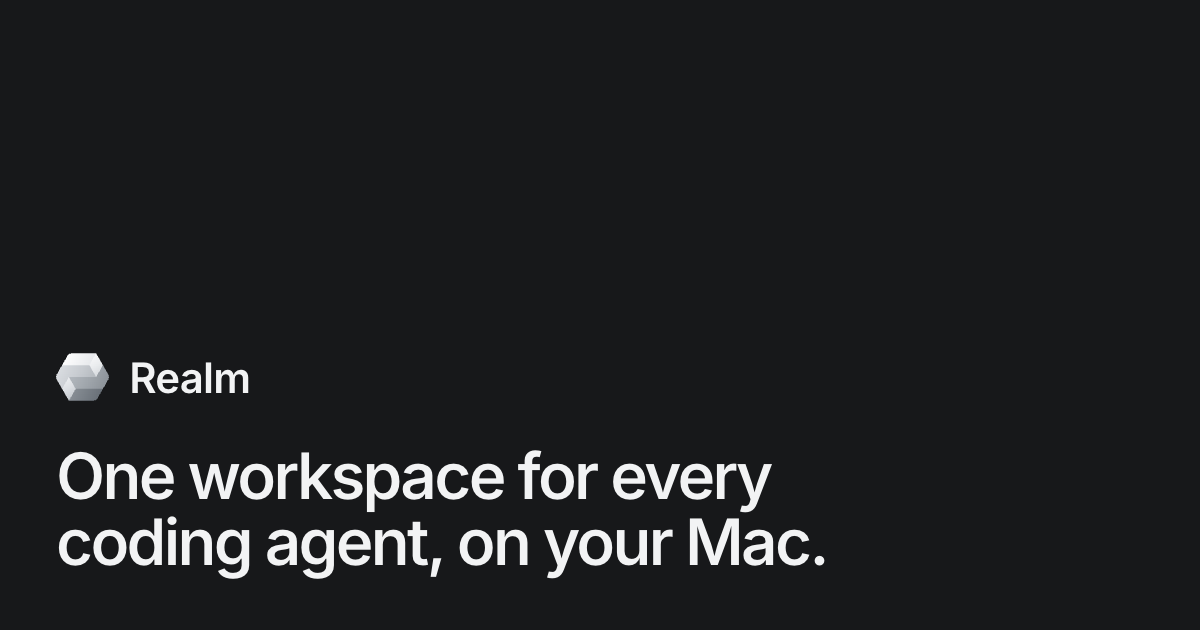
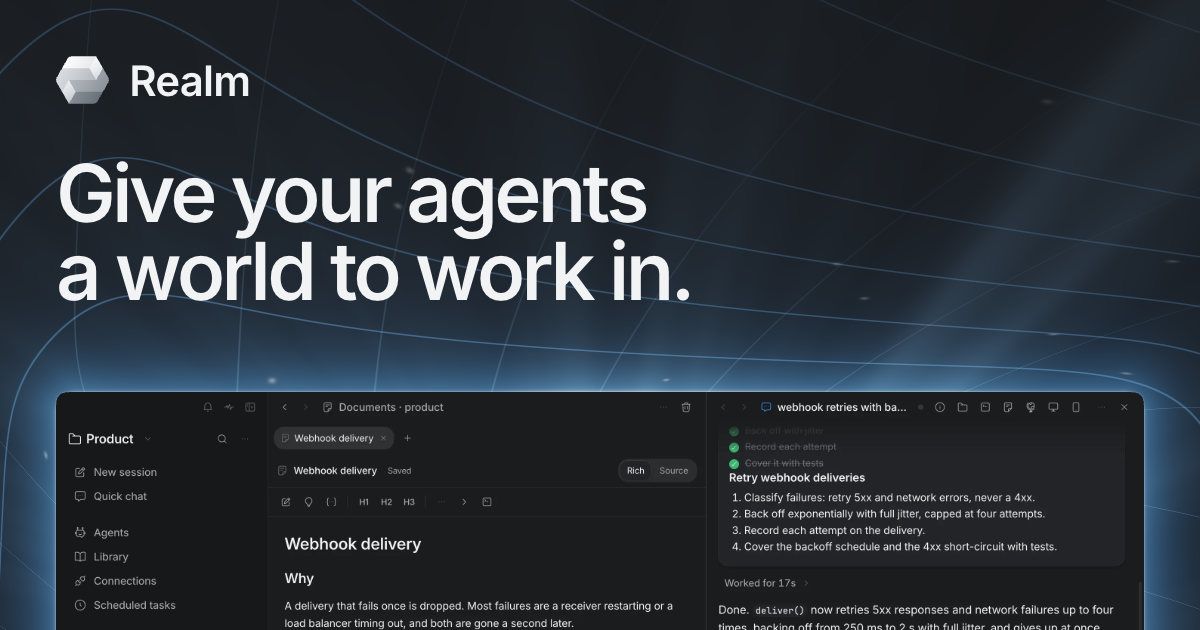
Put the new hero on the share image
The share image was still the wordmark and the old tagline on a flat page,
so a shared link looked nothing like the page it opens. /share is now the
hero at card size: the wordmark, "Give your agents a world to work in.",
and the workspace capture rising in its portal under the same dimension
field. The prose and the buttons stay off it, since a card cannot be
clicked.

The portal's box is sized before the capture loads: under the capture's
reduced motion the field paints one frame, and reads the portal's rect only
then.

Recaptured with capture:share from a production build; the alt text
describes the new picture.

diff --git a/site/app/share/page.tsx b/site/app/share/page.tsx
@@ -1,7 +1,8 @@
 import type { Metadata } from "next"
+import Image from "next/image"
 
+import { DimensionField } from "@/components/dimension/DimensionField"
 import { Wordmark } from "@/components/Wordmark"
-import { site } from "@/lib/site"
 
 export const metadata: Metadata = {
   title: "Share image",
@@ -12,18 +13,28 @@ export const metadata: Metadata = {
  * The source for the site's share images. scripts/capture-share-images.mjs opens this at 1200 × 630
  * and saves the frame as app/opengraph-image.png and app/twitter-image.png; nothing links here.
  *
- * It is the wordmark and the tagline on the page colour, and nothing else. A card cannot be clicked,
- * so the landing page's controls would only be clutter at thumbnail size, and the glass mark was
- * taken off too: at card size it read as a crystal rather than the mark.
+ * It is the landing page's hero at card size: the headline, and the workspace rising in its portal
+ * under the same dimension field, so a shared link looks like the page it opens. The wordmark stands
+ * in for the header, which a card does not have. The prose and the buttons are left out: a card
+ * cannot be clicked, and at thumbnail size they would only be clutter.
  */
 export default function SharePage() {
   return (
-    <main className="relative h-[100dvh] overflow-hidden">
-      <div className="absolute inset-x-0 bottom-0 p-14">
+    <main data-dim-stage="hero" className="relative h-[100dvh] overflow-hidden">
+      <DimensionField />
+      <div className="px-14 pt-12">
         <Wordmark size="display" className="text-ink" />
-        <p className="mt-7 max-w-[19ch] text-[64px] leading-[1.02] font-[560] tracking-[-0.042em] text-balance text-ink">
-          {site.tagline}
-        </p>
+        <h1 className="mt-9 max-w-[15ch] text-[80px] leading-[0.98] font-[560] tracking-[-0.047em] text-ink">
+          Give your agents a world to work in.
+        </h1>
+      </div>
+      {/* The rect is fixed before the capture loads, because the field reads it once: under reduced
+          motion it paints a single frame. */}
+      <div
+        data-dim="portal"
+        className="app-corner absolute inset-x-14 top-[392px] aspect-[1.6] overflow-hidden rounded-[20px] bg-page shadow-[0_0_0_1px_oklch(1_0_0/0.09)]"
+      >
+        <Image src="/product/workspace.png" alt="" width={2880} height={1800} priority className="h-auto w-full" />
       </div>
     </main>
   )
